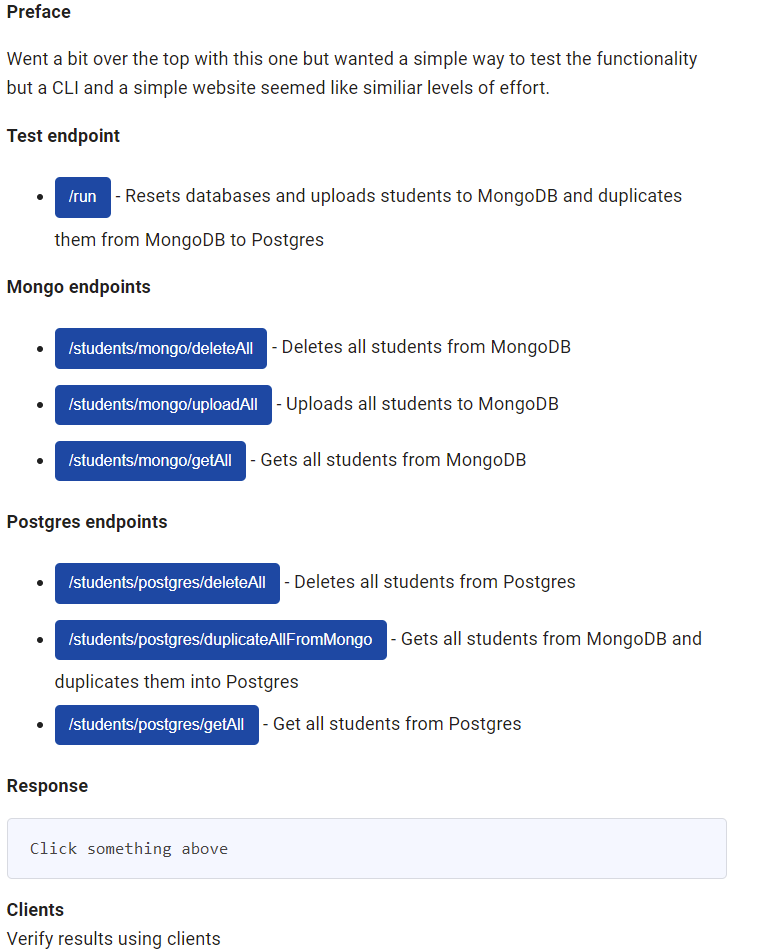
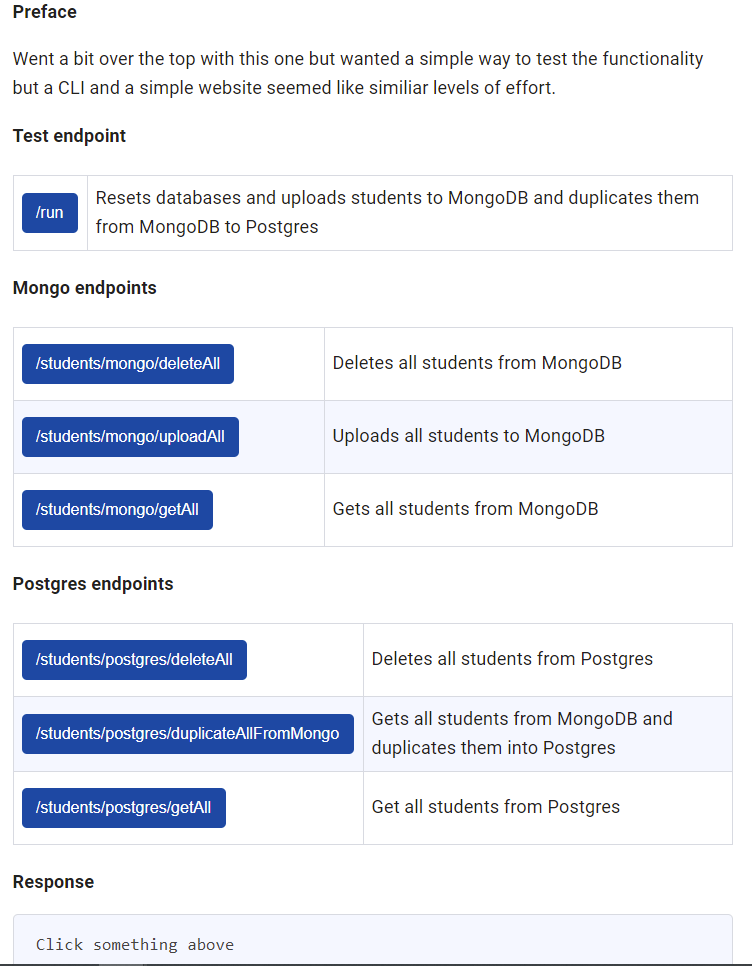
Convert list to table Update demo.png Add TODO to README

diff --git a/src/page.ts b/src/page.ts
@@ -25,7 +25,10 @@ function renderButton({ path }: Route) {
 
 function renderRoute(route: Route) {
   const { description } = route;
-  return `<li>${renderButton(route)} - ${description}</li>`;
+  return `<tr>
+<td class="table_leftCol">${renderButton(route)}</td>
+<td>${description}</td>
+</tr>`;
 }
 
 const page = `
@@ -35,6 +38,11 @@ const page = `
   <meta charset="UTF-8">
   <title>mongo-to-sql</title>
   <link rel="stylesheet" href="https://cdn.simplecss.org/simple.min.css">
+  <style>
+    .table_leftCol {
+      white-space: nowrap;
+    }
+  </style>
 </head>
 <body>
 <div><strong>Preface</strong></div>
@@ -45,19 +53,19 @@ effort.
 </p>
 
 <div><strong>Test endpoint</strong></div>
-<ul>
+<table>
 ${renderRoute(routes.run)}
-</ul>
+</table>
 
 <div><strong>Mongo endpoints</strong></div>
-<ul>
+<table>
 ${mongoRoutes.map((route) => renderRoute(route)).join("")}
-</ul>
+</table>
 
 <div><strong>Postgres endpoints</strong></div>
-<ul>
+<table>
 ${postgresRoutes.map((route) => renderRoute(route)).join("")}
-</ul>
+</table>
 
 <div><strong>Response</strong></div>
 <pre id="response">Click something above</pre>
@@ -66,9 +74,7 @@ ${postgresRoutes.map((route) => renderRoute(route)).join("")}
 Verify results using clients
 <ul>
  <li><a href="http://localhost:8081">Mongo-express</a></li>
- <li>
- <a href="http://localhost:5050">PgAdmin</a> - PgAdmin requires a bit more work
- to access as there wasn't easy way to pre-configure it
+ <li><a href="http://localhost:5050">PgAdmin</a>
   <ul>
     <li>Username: ${PGADMIN_DEFAULT_EMAIL}</li>
     <li>Password: ${PGADMIN_DEFAULT_PASSWORD}</li>

diff --git a/README.md b/README.md
@@ -3,6 +3,7 @@
 ```bash
 docker compose up
 
+# In a separate terminal
 npm install
 npm start
 ```
@@ -10,3 +11,11 @@ npm start
 Go to http://localhost:3001
 
 ![demo](./demo.png)
+
+## TODO
+- [ ] Unit test
+- [ ] Integration test
+- [ ] Make it fancy
+  - [ ] Convert to Vue or React
+  - [ ] Use framework (Material-UI?)
+- [ ] Add CLI?
